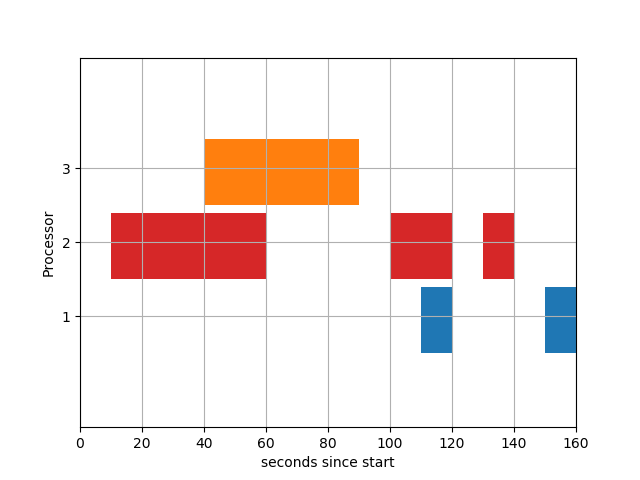
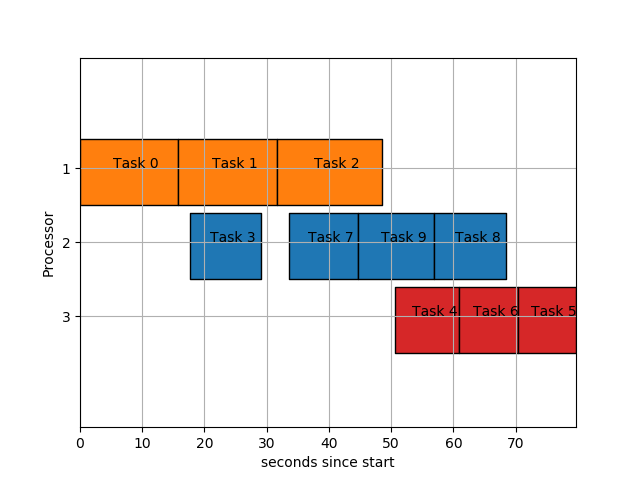
Added plotter and schedule runner

diff --git a/schedule_runner.py b/schedule_runner.py
@@ -1,0 +1,80 @@
+import json
+
+
+class Task:
+    def __init__(self, task_num, processor, speed, exec_time, exec_power, comm_data):
+        self.task_num = task_num
+        self.processor = processor
+        self.speed = speed
+        self.clock_time = 0
+        self.exec_time = exec_time
+        self.exec_power = exec_power
+        self.comm_data = comm_data
+
+    def set_graphs(self, parents, children, processor_times):
+        self.parents = parents
+        self.children = children
+        self.processor_times = processor_times
+
+    def message(self, task, clock_time):
+        if clock_time > self.clock_time:
+            self.clock_time = clock_time
+        if task in self.parents:
+            self.parents.remove(task)
+        if len(self.parents) == 0:
+            self.start_time = self.clock_time
+            self.clock_time += self.exec_time
+            self.end_time = self.start_time + self.exec_time
+            print('Task {}: Proc: {} Exec Time = {:.3f}-{:.3f}'.format(self.task_num,
+                                                                       self.processor,
+                                                                       self.start_time,
+                                                                       self.end_time))
+            # task_stats = {'processor': self.processor, 'task': self.task_num,
+            #              'start': self.start_time, 'end': self.end_time}
+            energy = self.exec_time * self.exec_power
+            task_stats = (self.task_num, round(self.start_time, 3),
+                          round(self.end_time, 3), round(energy, 3))
+            self.processor_times[self.processor].append(task_stats)
+            for child in self.children:
+                if child.processor == self.processor:
+
+                    child.message(self.task_num, self.clock_time)
+                else:
+                    child.message(self.task_num, self.clock_time +
+                                  self.comm_data[(self.task_num, child.task_num)])
+
+
+if __name__ == "__main__":
+    all_data = json.load(open('test_simple.json'))
+    schedule = json.load(open('agent_schedule.json'))
+    all_tasks = {}
+    comm_data = {}
+    for arc, data in all_data['arcs'].items():
+        comm_data[(data[0], data[1])] = data[2]
+    for task_detail in schedule:
+        task = int(task_detail)
+        processor = schedule[task_detail]['processor']
+        speed = schedule[task_detail]['speed']
+        exec_time = all_data['proc_exec'][str(processor)][speed][task]
+        exec_power = all_data['proc_power'][str(processor)][speed][task]
+        t = Task(task, processor, speed, exec_time, exec_power, comm_data)
+        all_tasks[task] = t
+
+    processor_times = [[] for i in range(len(all_data['proc_exec']))]
+    for task_num, task in all_tasks.items():
+        parents = set(schedule[str(task_num)]['parents'])
+        children = set()
+        for child_num in schedule[str(task_num)]['children']:
+            children.add(all_tasks[child_num])
+        task.set_graphs(parents, children, processor_times)
+
+    all_tasks[0].message(None, 0)
+    print(processor_times)
+    task_energy = sum([task[3] for proc in processor_times for task in proc])
+    print(task_energy)
+    max_time = max([task[2] for proc in processor_times for task in proc])
+    print(max_time)
+
+    import plot
+
+    plot.plot(processor_times, max_time)

diff --git a/plot.py b/plot.py
@@ -2,35 +2,41 @@
 # Importing the matplotlb.pyplot
 import matplotlib.pyplot as plt
 
-# Declaring a figure "gnt"
-fig, gnt = plt.subplots()
 
-# Setting Y-axis limits
-gnt.set_ylim(0, 50)
+def plot(schedule, max_time):
 
-# Setting X-axis limits
-gnt.set_xlim(0, 160)
+    # Declaring a figure "gnt"
+    fig, gnt = plt.subplots()
 
-# Setting labels for x-axis and y-axis
-gnt.set_xlabel('seconds since start')
-gnt.set_ylabel('Processor')
+    # Setting Y-axis limits
+    gnt.set_ylim(0, 50)
 
-# Setting ticks on y-axis
-gnt.set_yticks([15, 25, 35])
-# Labelling tickes of y-axis
-gnt.set_yticklabels(['1', '2', '3'])
+    # Setting X-axis limits
+    gnt.set_xlim(0, max_time)
 
-# Setting graph attribute
-gnt.grid(True)
+    # Setting labels for x-axis and y-axis
+    gnt.set_xlabel('seconds since start')
+    gnt.set_ylabel('Processor')
 
-# Declaring a bar in schedule
-gnt.broken_barh([(40, 50)], (30, 9), facecolors=('tab:orange'))
+    # Setting ticks on y-axis
+    y_ticks = [35, 25, 15]
+    gnt.set_yticks(y_ticks)
+    # Labelling tickes of y-axis
+    gnt.set_yticklabels(['1', '2', '3'])
 
-# Declaring multiple bars in at same level and same width
-gnt.broken_barh([(110, 10), (150, 10)], (10, 9),
-                facecolors='tab:blue')
+    # Setting graph attribute
+    gnt.grid(True)
 
-gnt.broken_barh([(10, 50), (100, 20), (130, 10)], (20, 9),
-                facecolors=('tab:red'))
+    y_coords = [(30, 9), (20, 9), (10, 9)]
+    proc_colors = ['tab:orange', 'tab:blue', 'tab:red']
 
-plt.savefig("gantt1.png")
+    for i, proc in enumerate(schedule):
+        sch = []
+        for task in proc:
+            sch.append((task[1], task[2] - task[1]))
+            gnt.text((task[1]+task[2])/2-2.5,
+                     y_ticks[i], "Task {}".format(task[0]))
+        gnt.broken_barh(
+            sch, y_coords[i], facecolors=proc_colors[i], edgecolor='black')
+
+    plt.savefig("gantt1.png")

diff --git a/EDLS.py b/EDLS.py
@@ -150,8 +150,8 @@ if __name__ == "__main__":
     edls = EDLS('test_simple.json')
     processor_speeds = [0, 0, 0]
     # Note if you want to run DLS algorithm uncoment following command
-    schedule = edls.run(processor_speeds, dls_algo=True)
+    schedule = edls.run(processor_speeds, dls_algo=False)
     # schedule = edls.run(processor_speeds)
     agent_schedule = edls.get_agent_schedule()
     print(schedule)
-    #json.dump(agent_schedule, open('agent_schedule.json', 'w'))
+    json.dump(agent_schedule, open('agent_schedule.json', 'w'))
